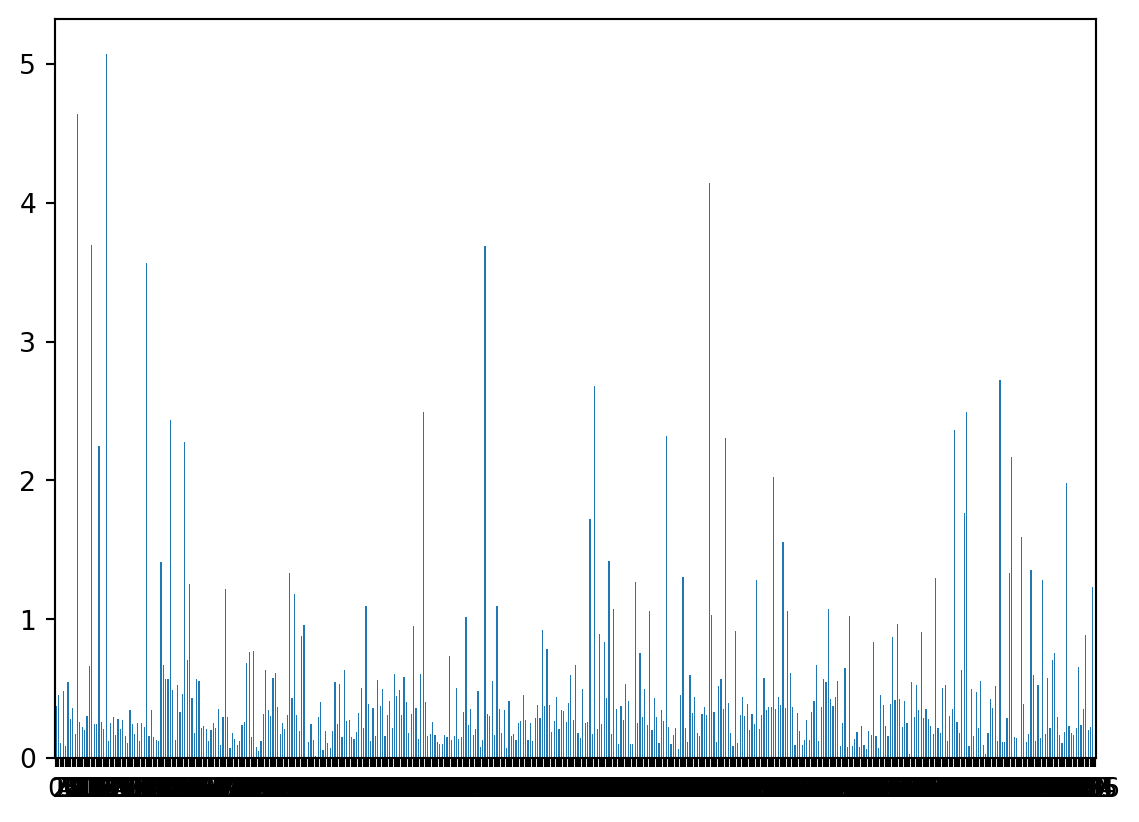
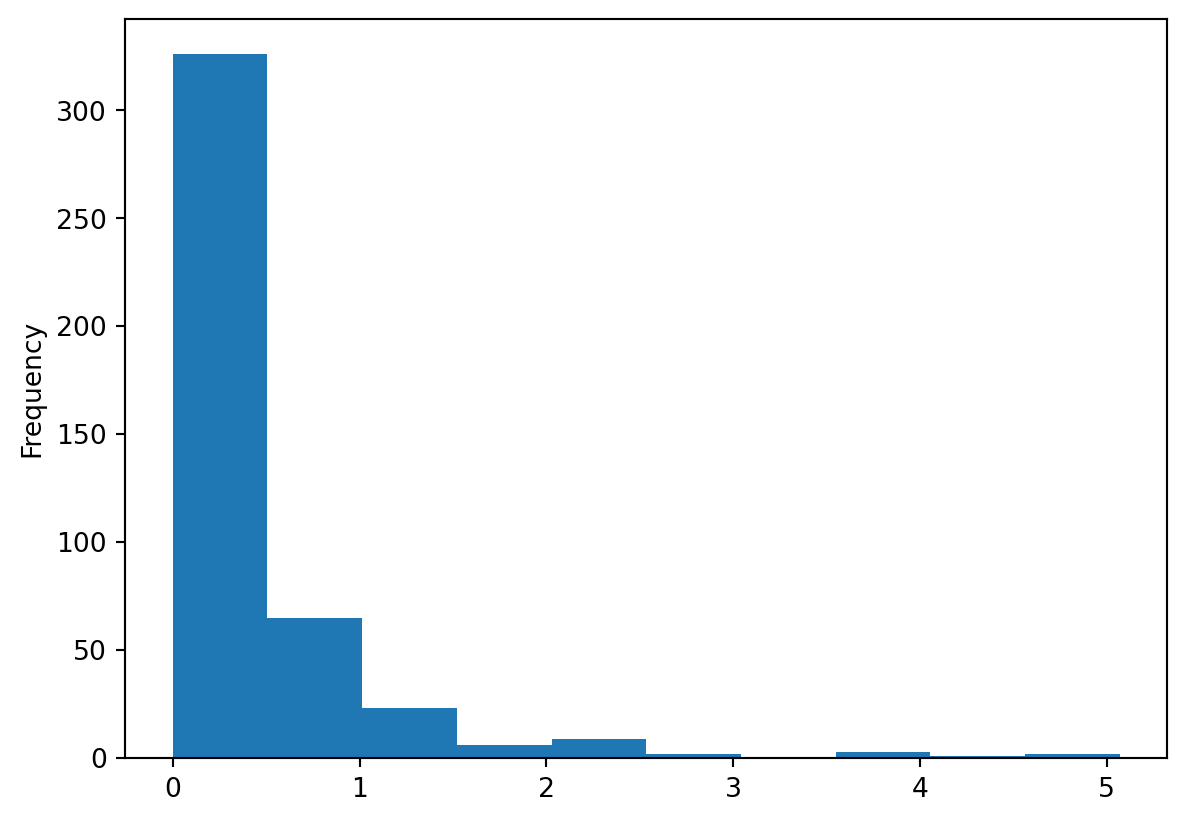
.

Changed region(s): [[0.0, 0.0304, 1.0, 0.9732], [0.0, 0.0608, 0.0307, 0.0912]]

diff --git a/docs/index.html b/docs/index.html
@@ -102,7 +102,10 @@ pre > code.sourceCode > span > a:first-child::before { text-decoration: underlin
 }</script>
 <script src="https://cdnjs.cloudflare.com/ajax/libs/require.js/2.3.6/require.min.js" integrity="sha512-c3Nl8+7g4LMSTdrm621y7kf9v3SDPnhxLNhcjFJbKECVnmZHTdo+IRO05sNLTH/D3vA6u1X32ehoLC7WFVdheg==" crossorigin="anonymous"></script>
 
+
+
 <script type="application/javascript">define('jquery', [],function() {return window.jQuery;})</script>
+
 
 
 <link rel="stylesheet" href="styles.css">
@@ -155,6 +158,8 @@ pre > code.sourceCode > span > a:first-child::before { text-decoration: underlin
   <li><a href="#q3q4q5-mpg-데이터를-이용해-분석-문제를-해결해-보세요.-p115" id="toc-q3q4q5-mpg-데이터를-이용해-분석-문제를-해결해-보세요.-p115" class="nav-link" data-scroll-target="#q3q4q5-mpg-데이터를-이용해-분석-문제를-해결해-보세요.-p115">Q3,Q4,Q5 mpg 데이터를 이용해 분석 문제를 해결해 보세요. P115</a></li>
   <li><a href="#q6q10-p130" id="toc-q6q10-p130" class="nav-link" data-scroll-target="#q6q10-p130">Q6~Q10 P130</a></li>
   <li><a href="#p144" id="toc-p144" class="nav-link" data-scroll-target="#p144">P144</a></li>
+  <li><a href="#p150" id="toc-p150" class="nav-link" data-scroll-target="#p150">p150</a></li>
+  <li><a href="#p153" id="toc-p153" class="nav-link" data-scroll-target="#p153">p153</a></li>
   </ul>
 </nav>
     </div>
@@ -189,7 +194,7 @@ pre > code.sourceCode > span > a:first-child::before { text-decoration: underlin
 </section>
 <section id="q2.-앞에서-만든-데이터-프레임을-이용해-과일의-가격-평균과-판매량-평균을-구해-보세요.-p84" class="level3">
 <h3 class="anchored" data-anchor-id="q2.-앞에서-만든-데이터-프레임을-이용해-과일의-가격-평균과-판매량-평균을-구해-보세요.-p84">Q2. 앞에서 만든 데이터 프레임을 이용해 과일의 가격 평균과 판매량 평균을 구해 보세요. P84</h3>
-<div id="3ab9af0b" class="cell" data-execution_count="1">
+<div id="b097b22c" class="cell" data-execution_count="1">
 <div class="sourceCode cell-code" id="cb1"><pre class="sourceCode python code-with-copy"><code class="sourceCode python"><span id="cb1-1"><a href="#cb1-1" aria-hidden="true" tabindex="-1"></a><span class="im">import</span> pandas <span class="im">as</span> pd</span>
 <span id="cb1-2"><a href="#cb1-2" aria-hidden="true" tabindex="-1"></a></span>
 <span id="cb1-3"><a href="#cb1-3" aria-hidden="true" tabindex="-1"></a>df <span class="op">=</span> pd.DataFrame({<span class="st">"제품"</span> : [<span class="st">"사과"</span>,<span class="st">"딸기"</span>,<span class="st">"수박"</span>], <span class="st">"판매량"</span> : [<span class="dv">1800</span>,<span class="dv">1500</span>,<span class="dv">3000</span>], <span class="st">"가격"</span> : [<span class="dv">24</span>,<span class="dv">38</span>,<span class="dv">13</span>]} )</span>
@@ -203,14 +208,14 @@ pre > code.sourceCode > span > a:first-child::before { text-decoration: underlin
 </section>
 <section id="q3q4q5-mpg-데이터를-이용해-분석-문제를-해결해-보세요.-p115" class="level3">
 <h3 class="anchored" data-anchor-id="q3q4q5-mpg-데이터를-이용해-분석-문제를-해결해-보세요.-p115">Q3,Q4,Q5 mpg 데이터를 이용해 분석 문제를 해결해 보세요. P115</h3>
-<div id="df4b6c66" class="cell" data-execution_count="2">
+<div id="ea8ef683" class="cell" data-execution_count="2">
 <div class="sourceCode cell-code" id="cb2"><pre class="sourceCode python code-with-copy"><code class="sourceCode python"><span id="cb2-1"><a href="#cb2-1" aria-hidden="true" tabindex="-1"></a><span class="im">import</span> pandas <span class="im">as</span> pd</span>
 <span id="cb2-2"><a href="#cb2-2" aria-hidden="true" tabindex="-1"></a></span>
 <span id="cb2-3"><a href="#cb2-3" aria-hidden="true" tabindex="-1"></a>df <span class="op">=</span> pd.read_csv(<span class="st">"mpg.csv"</span>)</span>
 <span id="cb2-4"><a href="#cb2-4" aria-hidden="true" tabindex="-1"></a>cmpg <span class="op">=</span> df.copy()</span>
 <span id="cb2-5"><a href="#cb2-5" aria-hidden="true" tabindex="-1"></a>cmpg <span class="op">=</span> cmpg.rename(columns <span class="op">=</span> {<span class="st">"cty"</span>: <span class="st">"city"</span>,<span class="st">"hwy"</span>:<span class="st">"highway"</span>})</span>
 <span id="cb2-6"><a href="#cb2-6" aria-hidden="true" tabindex="-1"></a>cmpg</span></code><button title="Copy to Clipboard" class="code-copy-button"><i class="bi"></i></button></pre></div>
-<div class="cell-output cell-output-display" data-execution_count="6">
+<div class="cell-output cell-output-display" data-execution_count="2">
 <div>
 
 
@@ -396,7 +401,7 @@ pre > code.sourceCode > span > a:first-child::before { text-decoration: underlin
 </section>
 <section id="q6q10-p130" class="level3">
 <h3 class="anchored" data-anchor-id="q6q10-p130">Q6~Q10 P130</h3>
-<div id="676b268d" class="cell" data-execution_count="3">
+<div id="0594aef1" class="cell" data-execution_count="3">
 <div class="sourceCode cell-code" id="cb3"><pre class="sourceCode python code-with-copy"><code class="sourceCode python"><span id="cb3-1"><a href="#cb3-1" aria-hidden="true" tabindex="-1"></a><span class="im">import</span> pandas <span class="im">as</span> pd</span>
 <span id="cb3-2"><a href="#cb3-2" aria-hidden="true" tabindex="-1"></a><span class="im">import</span> matplotlib.pyplot <span class="im">as</span> plt </span>
 <span id="cb3-3"><a href="#cb3-3" aria-hidden="true" tabindex="-1"></a><span class="im">import</span> seaborn</span>
@@ -407,25 +412,25 @@ pre > code.sourceCode > span > a:first-child::before { text-decoration: underlin
 <span id="cb3-8"><a href="#cb3-8" aria-hidden="true" tabindex="-1"></a>mw <span class="op">=</span> midwest.copy()</span>
 <span id="cb3-9"><a href="#cb3-9" aria-hidden="true" tabindex="-1"></a>mw <span class="op">=</span> mw.rename(columns <span class="op">=</span> {<span class="st">"poptotal"</span>:<span class="st">"total"</span>,<span class="st">"popasian"</span>:<span class="st">"asian"</span>})</span>
 <span id="cb3-10"><a href="#cb3-10" aria-hidden="true" tabindex="-1"></a>mw[<span class="st">"asian_percent"</span>] <span class="op">=</span> mw[<span class="st">"asian"</span>]<span class="op">/</span>mw[<span class="st">"total"</span>]<span class="op">*</span><span class="dv">100</span></span>
-<span id="cb3-11"><a href="#cb3-11" aria-hidden="true" tabindex="-1"></a>mw[<span class="st">"asian_percent"</span>].plot.bar(rot<span class="op">=</span><span class="dv">0</span>)</span>
+<span id="cb3-11"><a href="#cb3-11" aria-hidden="true" tabindex="-1"></a>mw[<span class="st">"asian_percent"</span>].plot.hist()</span>
 <span id="cb3-12"><a href="#cb3-12" aria-hidden="true" tabindex="-1"></a>plt.show()</span>
 <span id="cb3-13"><a href="#cb3-13" aria-hidden="true" tabindex="-1"></a>plt.clf()</span>
 <span id="cb3-14"><a href="#cb3-14" aria-hidden="true" tabindex="-1"></a>mw[<span class="st">"paseng"</span>] <span class="op">=</span> np.where(mw[<span class="st">"asian_percent"</span>]<span class="op">&gt;</span>(<span class="bu">sum</span>(mw[<span class="st">"asian_percent"</span>])<span class="op">/</span><span class="bu">len</span>(mw)),<span class="st">"large"</span>,<span class="st">"small"</span>)</span>
 <span id="cb3-15"><a href="#cb3-15" aria-hidden="true" tabindex="-1"></a>mw[<span class="st">"paseng"</span>] <span class="op">=</span> mw[<span class="st">"asian_percent"</span>].<span class="bu">apply</span>(<span class="kw">lambda</span> x: <span class="st">"large"</span> <span class="cf">if</span> x <span class="op">&gt;</span> <span class="bu">sum</span>(mw[<span class="st">"asian_percent"</span>])<span class="op">/</span><span class="bu">len</span>(mw) <span class="cf">else</span> <span class="st">"small"</span>)</span>
-<span id="cb3-16"><a href="#cb3-16" aria-hidden="true" tabindex="-1"></a>mw[<span class="st">"paseng"</span>].value_counts().plot.bar(rot<span class="op">=</span><span class="dv">0</span>)</span>
+<span id="cb3-16"><a href="#cb3-16" aria-hidden="true" tabindex="-1"></a>mw[<span class="st">"paseng"</span>].value_counts().plot.bar()</span>
 <span id="cb3-17"><a href="#cb3-17" aria-hidden="true" tabindex="-1"></a>plt.show()</span>
 <span id="cb3-18"><a href="#cb3-18" aria-hidden="true" tabindex="-1"></a>plt.clf()</span></code><button title="Copy to Clipboard" class="code-copy-button"><i class="bi"></i></button></pre></div>
 <div class="cell-output cell-output-display">
 <div>
 <figure class="figure">
-<p><img src="index_files/figure-html/cell-4-output-1.png" width="570" height="411" class="figure-img"></p>
+<p><img src="index_files/figure-html/cell-4-output-1.png" width="593" height="411" class="figure-img"></p>
 </figure>
 </div>
 </div>
 <div class="cell-output cell-output-display">
 <div>
 <figure class="figure">
-<p><img src="index_files/figure-html/cell-4-output-2.png" width="575" height="429" class="figure-img"></p>
+<p><img src="index_files/figure-html/cell-4-output-2.png" width="575" height="452" class="figure-img"></p>
 </figure>
 </div>
 </div>
@@ -436,7 +441,7 @@ pre > code.sourceCode > span > a:first-child::before { text-decoration: underlin
 </section>
 <section id="p144" class="level3">
 <h3 class="anchored" data-anchor-id="p144">P144</h3>
-<div id="9b2a2959" class="cell" data-execution_count="4">
+<div id="87013ecc" class="cell" data-execution_count="4">
 <div class="sourceCode cell-code" id="cb5"><pre class="sourceCode python code-with-copy"><code class="sourceCode python"><span id="cb5-1"><a href="#cb5-1" aria-hidden="true" tabindex="-1"></a><span class="im">import</span> pandas <span class="im">as</span> pd</span>
 <span id="cb5-2"><a href="#cb5-2" aria-hidden="true" tabindex="-1"></a><span class="im">import</span> matplotlib.pyplot <span class="im">as</span> plt </span>
 <span id="cb5-3"><a href="#cb5-3" aria-hidden="true" tabindex="-1"></a><span class="im">import</span> seaborn</span>
@@ -445,8 +450,54 @@ pre > code.sourceCode > span > a:first-child::before { text-decoration: underlin
 <span id="cb5-6"><a href="#cb5-6" aria-hidden="true" tabindex="-1"></a>mpg_raw <span class="op">=</span> pd.read_csv(<span class="st">"mpg.csv"</span>)</span>
 <span id="cb5-7"><a href="#cb5-7" aria-hidden="true" tabindex="-1"></a>mpg <span class="op">=</span> mpg_raw.copy()</span>
 <span id="cb5-8"><a href="#cb5-8" aria-hidden="true" tabindex="-1"></a></span>
-<span id="cb5-9"><a href="#cb5-9" aria-hidden="true" tabindex="-1"></a><span class="co">#mpg[""]</span></span></code><button title="Copy to Clipboard" class="code-copy-button"><i class="bi"></i></button></pre></div>
+<span id="cb5-9"><a href="#cb5-9" aria-hidden="true" tabindex="-1"></a></span>
+<span id="cb5-10"><a href="#cb5-10" aria-hidden="true" tabindex="-1"></a>a4 <span class="op">=</span> <span class="bu">sum</span>(mpg.query(<span class="st">'displ &lt;= 4'</span>)[<span class="st">"hwy"</span>])<span class="op">/</span><span class="bu">len</span>(mpg.query(<span class="st">'displ &lt;= 4'</span>)[<span class="st">"hwy"</span>])</span>
+<span id="cb5-11"><a href="#cb5-11" aria-hidden="true" tabindex="-1"></a>a4 <span class="op">=</span> mpg.query(<span class="st">'displ &lt;= 4'</span>)[<span class="st">"hwy"</span>].mean()</span>
+<span id="cb5-12"><a href="#cb5-12" aria-hidden="true" tabindex="-1"></a>b5 <span class="op">=</span> <span class="bu">sum</span>(mpg.query(<span class="st">'displ &gt;= 5'</span>)[<span class="st">"hwy"</span>])<span class="op">/</span><span class="bu">len</span>(mpg.query(<span class="st">'displ &gt;= 5'</span>)[<span class="st">"hwy"</span>])</span>
+<span id="cb5-13"><a href="#cb5-13" aria-hidden="true" tabindex="-1"></a><span class="cf">if</span> a4 <span class="op">&gt;</span> b5 :</span>
+<span id="cb5-14"><a href="#cb5-14" aria-hidden="true" tabindex="-1"></a>    <span class="bu">print</span>(<span class="st">"배기량 4 이하 자동차가 고속도로 연비 평균이 높습니다."</span>)</span>
+<span id="cb5-15"><a href="#cb5-15" aria-hidden="true" tabindex="-1"></a><span class="cf">else</span> :</span>
+<span id="cb5-16"><a href="#cb5-16" aria-hidden="true" tabindex="-1"></a>    <span class="bu">print</span>(<span class="st">"배기량 5 이상 자동차가 고속도로 연비 평균이 높습니다."</span>)</span>
+<span id="cb5-17"><a href="#cb5-17" aria-hidden="true" tabindex="-1"></a></span>
+<span id="cb5-18"><a href="#cb5-18" aria-hidden="true" tabindex="-1"></a>mpg.info</span>
+<span id="cb5-19"><a href="#cb5-19" aria-hidden="true" tabindex="-1"></a>audi_cty_mean <span class="op">=</span> mpg.query(<span class="st">'manufacturer == "audi"'</span>)[<span class="st">"cty"</span>].mean()</span>
+<span id="cb5-20"><a href="#cb5-20" aria-hidden="true" tabindex="-1"></a>toyota_cty_mean <span class="op">=</span> mpg.query(<span class="st">'manufacturer == "toyota"'</span>)[<span class="st">"cty"</span>].mean()</span>
+<span id="cb5-21"><a href="#cb5-21" aria-hidden="true" tabindex="-1"></a><span class="cf">if</span> audi_cty_mean <span class="op">&gt;</span> toyota_cty_mean :</span>
+<span id="cb5-22"><a href="#cb5-22" aria-hidden="true" tabindex="-1"></a>    <span class="bu">print</span>(<span class="st">"audi의 도시 연비 평균이 높습니다."</span>)</span>
+<span id="cb5-23"><a href="#cb5-23" aria-hidden="true" tabindex="-1"></a><span class="cf">else</span> :</span>
+<span id="cb5-24"><a href="#cb5-24" aria-hidden="true" tabindex="-1"></a>    <span class="bu">print</span>(<span class="st">"toyota의 도시 연비 평균이 높습니다."</span>)</span>
+<span id="cb5-25"><a href="#cb5-25" aria-hidden="true" tabindex="-1"></a></span>
+<span id="cb5-26"><a href="#cb5-26" aria-hidden="true" tabindex="-1"></a><span class="bu">print</span>(mpg.query(<span class="st">'manufacturer in ["chevorlet","ford","honda"]'</span>)[<span class="st">'hwy'</span>].mean())</span></code><button title="Copy to Clipboard" class="code-copy-button"><i class="bi"></i></button></pre></div>
+<div class="cell-output cell-output-stdout">
+<pre><code>배기량 4 이하 자동차가 고속도로 연비 평균이 높습니다.
+toyota의 도시 연비 평균이 높습니다.
+22.852941176470587</code></pre>
 </div>
+</div>
+</section>
+<section id="p150" class="level3">
+<h3 class="anchored" data-anchor-id="p150">p150</h3>
+<div id="29b478d3" class="cell" data-execution_count="5">
+<div class="sourceCode cell-code" id="cb7"><pre class="sourceCode python code-with-copy"><code class="sourceCode python"><span id="cb7-1"><a href="#cb7-1" aria-hidden="true" tabindex="-1"></a><span class="im">import</span> pandas <span class="im">as</span> pd</span>
+<span id="cb7-2"><a href="#cb7-2" aria-hidden="true" tabindex="-1"></a><span class="im">import</span> numpy <span class="im">as</span> np    </span>
+<span id="cb7-3"><a href="#cb7-3" aria-hidden="true" tabindex="-1"></a></span>
+<span id="cb7-4"><a href="#cb7-4" aria-hidden="true" tabindex="-1"></a>mpg_raw <span class="op">=</span> pd.read_csv(<span class="st">"mpg.csv"</span>)</span>
+<span id="cb7-5"><a href="#cb7-5" aria-hidden="true" tabindex="-1"></a>mpg <span class="op">=</span> mpg_raw.copy()</span>
+<span id="cb7-6"><a href="#cb7-6" aria-hidden="true" tabindex="-1"></a>mpg[[<span class="st">"category"</span>,<span class="st">"cty"</span>]]</span>
+<span id="cb7-7"><a href="#cb7-7" aria-hidden="true" tabindex="-1"></a>suv_cty_mean <span class="op">=</span> mpg.query(<span class="st">"category == 'suv'"</span>)[<span class="st">'cty'</span>].mean()</span>
+<span id="cb7-8"><a href="#cb7-8" aria-hidden="true" tabindex="-1"></a>com_cty_mean <span class="op">=</span> mpg.query(<span class="st">"category == 'compact'"</span>)[<span class="st">'cty'</span>].mean()</span>
+<span id="cb7-9"><a href="#cb7-9" aria-hidden="true" tabindex="-1"></a></span>
+<span id="cb7-10"><a href="#cb7-10" aria-hidden="true" tabindex="-1"></a><span class="cf">if</span> suv_cty_mean <span class="op">&gt;</span> com_cty_mean :</span>
+<span id="cb7-11"><a href="#cb7-11" aria-hidden="true" tabindex="-1"></a>    <span class="bu">print</span>(<span class="st">"suv의 도시 연비 평균이 높습니다."</span>)</span>
+<span id="cb7-12"><a href="#cb7-12" aria-hidden="true" tabindex="-1"></a><span class="cf">else</span> :</span>
+<span id="cb7-13"><a href="#cb7-13" aria-hidden="true" tabindex="-1"></a>    <span class="bu">print</span>(<span class="st">"compact의 도시 연비 평균이 높습니다."</span>)</span></code><button title="Copy to Clipboard" class="code-copy-button"><i class="bi"></i></button></pre></div>
+<div class="cell-output cell-output-stdout">
+<pre><code>compact의 도시 연비 평균이 높습니다.</code></pre>
+</div>
+</div>
+</section>
+<section id="p153" class="level3">
+<h3 class="anchored" data-anchor-id="p153">p153</h3>
 
 
 </section>
